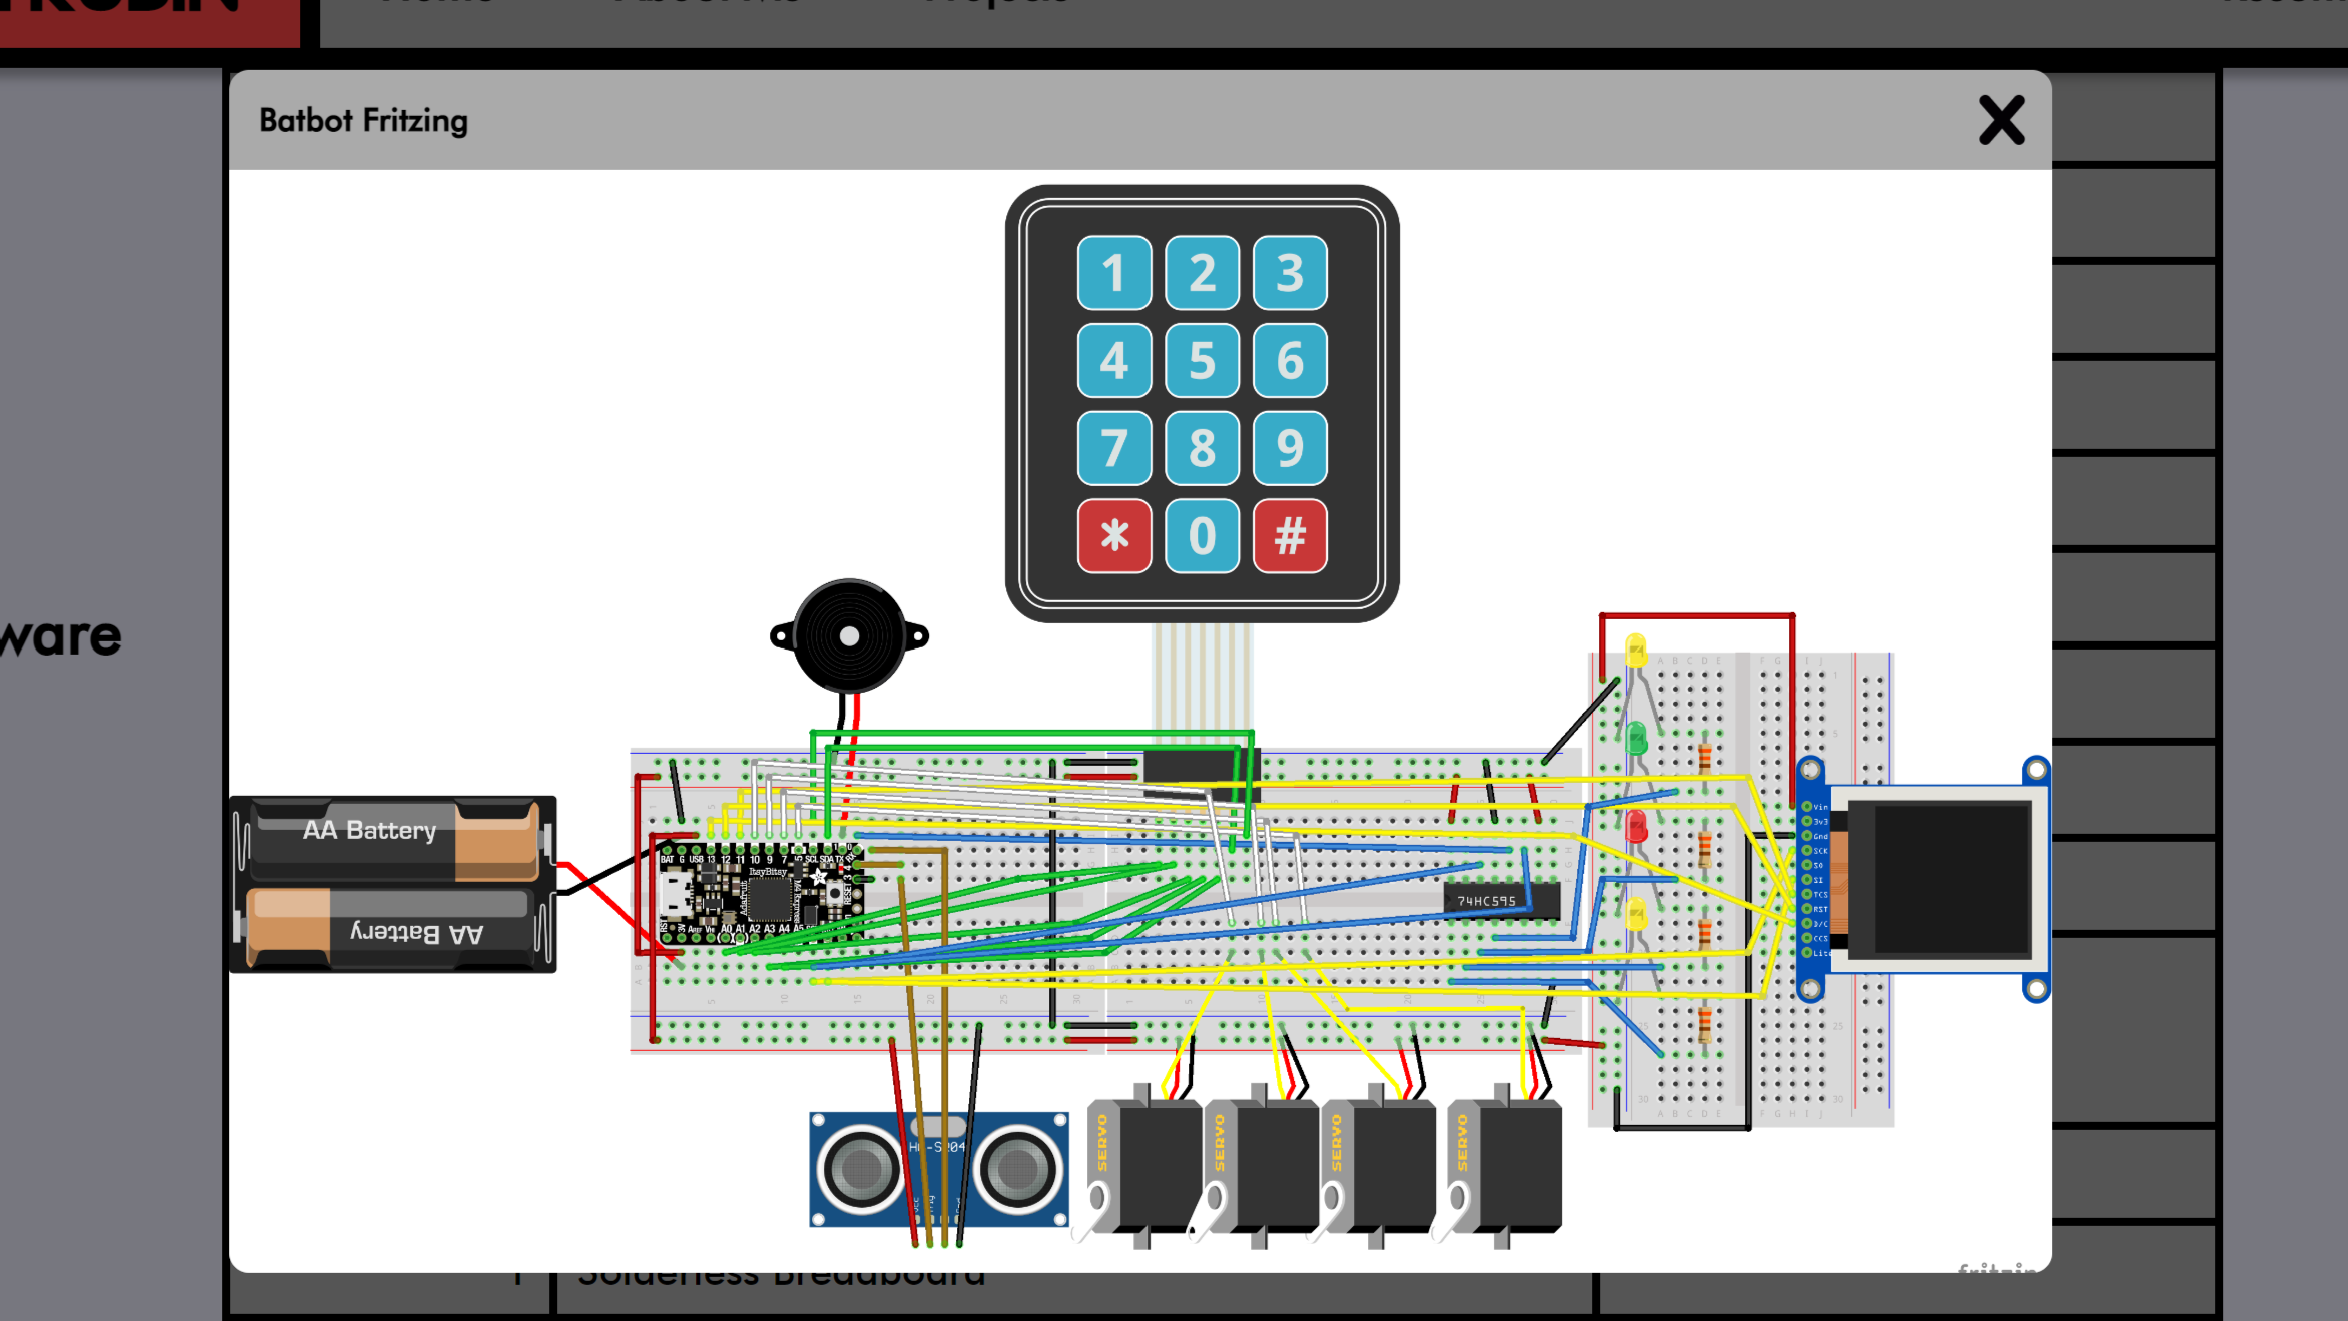
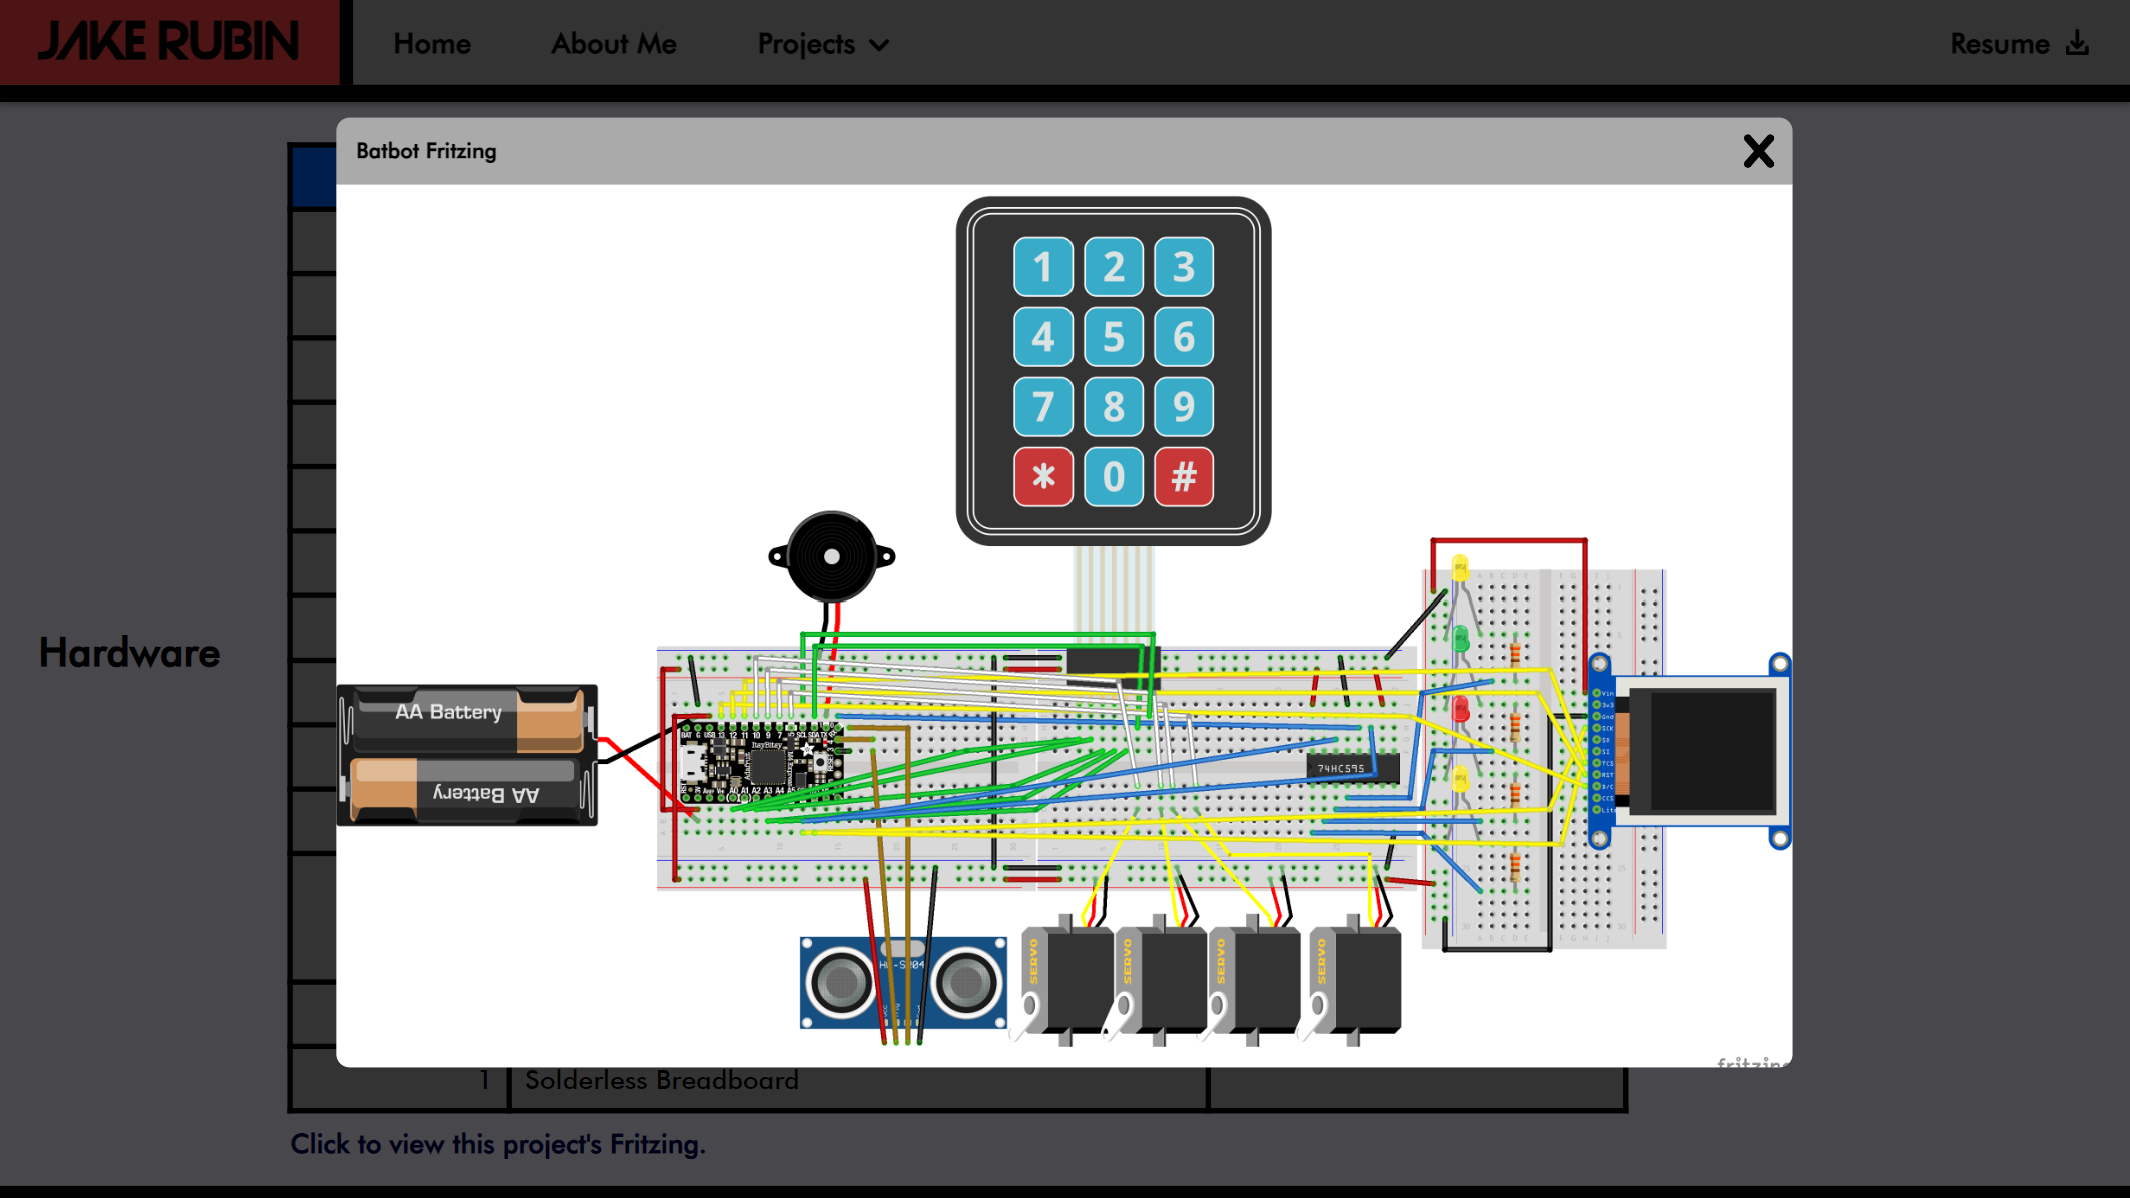
Update website features, small fixes to project files

diff --git a/projects/website.html b/projects/website.html
@@ -130,7 +130,7 @@
     </div>
     <div id="pgit">
         <a href="https://github.com/rubination/rubination.github.io">
-            <img src="./../img/github.png">
+            <div id="pgitlogo"></div>
             <p>Click here for the Github repository</p>
         </a>
     </div>
@@ -169,7 +169,7 @@
             <img class="featimg" src="./../img/featwebsite/navbar.png">
             <img class="featimg" src="./../img/featwebsite/projshowcase.png">
             <img class="featimg" src="./../img/featwebsite/hobbies.png">
-            <img class="featimg" src="./../img/featwebsite/fritzing.png">
+            <img class="featimg" src="./../img/featwebsite/modal.png">
             <img class="featimg" src="./../img/featwebsite/features.png">
             <div class="featarrow rightarrow">
                 <div class="arrowfill"></div>
@@ -260,19 +260,26 @@
                 </ol>
             </div>
             <div class="feat">
-                <h2 class="dash">4/5 &mdash; Hardware Fritzing</h2>
-                <h2 class="br">4/5 <br> Hardware Fritzing</h2>
+                <h2 class="dash">4/5 &mdash; Modal Windows</h2>
+                <h2 class="br">4/5 <br> Modal Windows</h2>
                 <p>
-                    Only on hardware-inclusive projects, the click of a link displays a modal image with a Fritzing hardware schematic of the project.
-                    This allows me to better visualize the way I built the hardware components of a hardware project.
-                    There are two different design elements used to create the modal image.
+                    Some project pages display modal windows for two occasions: Fritzing hardware schematics and project demo videos.
+                    The Fritzing diagrams allow me to better visualize the way I build the hardware components of a project, and the demo video shows the project in action.
+                    Each of these modal windows are built in a different way, but overall use these building blocks:
                 </p>
                 <ol>
                     <li>
-                        <strong>JS Event Listeners and Functions:</strong> event listeners placed on a link and the modal's close icon trigger functions to display or hide the modal image.
+                        <strong>JS Event Listeners:</strong> event listeners placed on a link and the modal's close icon trigger functions to display or hide the modal image.
                     </li><br>
                     <li>
-                        <strong>CSS Animations:</strong> uses the CSS @keyframes rule to change the vertical position and opacity of the modal image immediately after display to seamlessly fade in the image.
+                        <strong>CSS Animations:</strong> the Fritzing modal uses the CSS @keyframes rule to change the vertical position and opacity of the modal image immediately after display to seamlessly fade in the image.
+                    </li><br>
+                    <li>
+                        <strong>Creating/Appending HTML:</strong> using the JS create createElement(), setAttribute(), and appendChild() functions, the demo video creates and inserts the modal and inserts it into the document.
+                        An event listener on the close icon triggers the remove() function to delete the modal from the document on a click.
+                    </li><br>
+                    <li>
+                        <strong>Embedded YouTube video:</strong> the demo video uses the &lt;iframe&gt; tag within several nested padded &lt;div&gt; tags to display a YouTube video with a fixed aspect ratio.
                     </li>
                 </ol>
             </div>

diff --git a/style/projects.css b/style/projects.css
@@ -97,13 +97,17 @@ a {
     color:var(--c5)
 }
 
-#pgit img {
+#pgitlogo {
+    width:22px;
     height:22px;
-    filter: invert(7%) sepia(73%) saturate(4866%) hue-rotate(241deg) brightness(77%) contrast(124%);
+    background-image:url(./../img/githublink.png);
+    background-size:cover;
+    background-position:center;
+    background-repeat:no-repeat;
 }
 
-#pgit a:hover img {
-    filter: invert(41%) sepia(26%) saturate(7295%) hue-rotate(336deg) brightness(113%) contrast(112%);
+#pgit a:hover #pgitlogo {
+    background-image:url(./../img/githublinkhover.png);
 }
 
 /* TOOL LIST SECTION */
@@ -219,7 +223,7 @@ a {
     left:0;
     width:100%;
     height:100%;
-    background-color: rgba(0,0,0,0.5);
+    background-color: rgba(0,0,0,0.7);
 }
 
 #pfritzmodal > div {

diff --git a/projects/batbot.html b/projects/batbot.html
@@ -142,7 +142,7 @@
     </div>
     <div id="pgit">
         <a href="https://github.com/CPEN-291/P1_B_G13">
-            <img src="./../img/github.png">
+            <div id="pgitlogo"></div>
             <p>Click here for the Github repository</p>
         </a>
     </div>

diff --git a/projects/covidapp.html b/projects/covidapp.html
@@ -142,7 +142,7 @@
     </div>
     <div id="pgit">
         <a href>
-            <img src="./../img/github.png">
+            <div id="pgitlogo"></div>
             <p>Click here for the Github repository</p>
         </a>
     </div>
